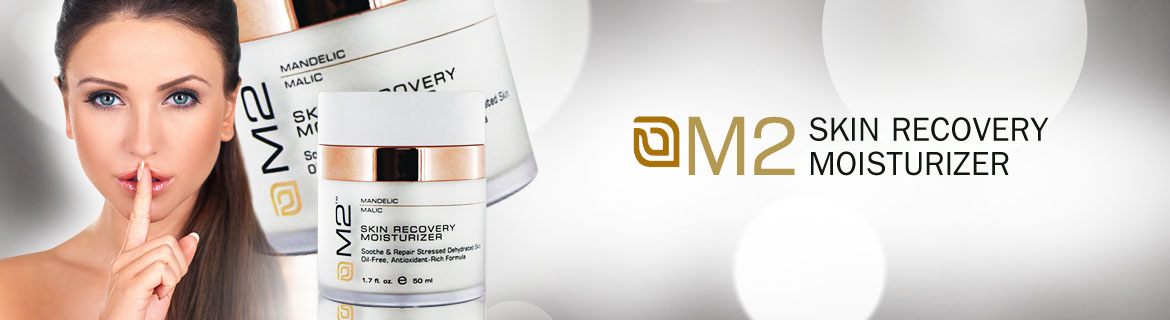
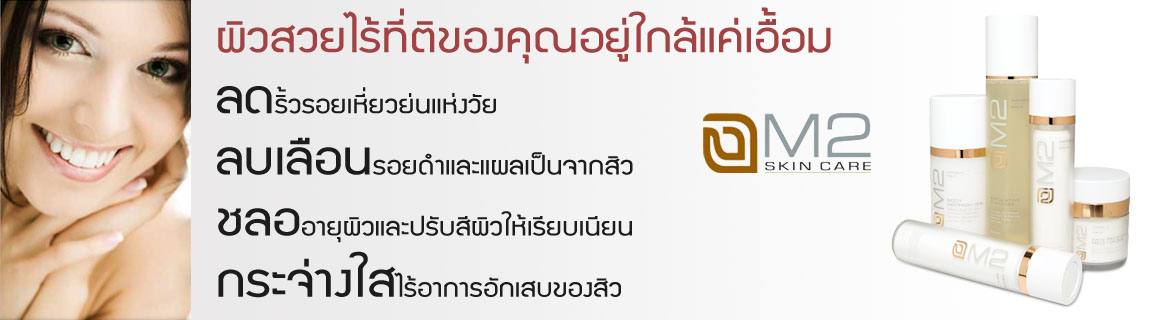
update website

diff --git a/wp-content/themes/mystile/style.css b/wp-content/themes/mystile/style.css
@@ -1993,7 +1993,7 @@ ul.products li.product img {
   box-sizing: border-box;
   /* Opera/IE 8+ */
 
-  border: 1px solid #e8e4e3;
+  border: 0px solid #e8e4e3;
   background: #fff;
   margin: 0 auto 1em;
 }

diff --git a/wp-content/plugins/woocommerce/templates/single-product/product-image.php b/wp-content/plugins/woocommerce/templates/single-product/product-image.php
@@ -12,6 +12,27 @@ if ( ! defined( 'ABSPATH' ) ) exit; // Exit if accessed directly
 global $post, $woocommerce, $product;
 
 ?>
+<style>
+.woocommerce-result-count, .woocommerce-ordering { display:none; }
+.product h3 { font-size: 1em; font-weight:normal; }
+.product-menu-list { float:left; width:250px; padding-top:30px; }
+.product-menu-list li { line-height:30px; }
+.product-menu-list a { color:#996633; }
+.single-product .images { width: 330px; padding: 80px 30px; }
+.images img { width: 300px; }
+.woocommerce-tabs { margin-top:100px;}
+.onsale { display:none; }
+</style>
+<div class="product-menu-list">
+	<h1 class="page-title">ผลิตภัณฑ์ของเรา</h1>
+        <ul>
+                <li><a href="/product/m2-exfoliating-cleanser/">M2 Exfoliating Cleanser เจลใสล้างหน้า</a></li>
+                <li><a href="/product/m2-skin-refinish-12/">M2 Skin Refinish 12% เซรั่ม เพื่อผิวหน้ากระจ่างใส</a></li>
+                <li><a href="/product/m2-skin-recovery-moisturizer/">M2 Skin Recovery Moisturizer ครีมบำรุงผิวหน้า</a></li>
+                <li><a href="/product/m2-body-refinish-15-100ml/">M2 Body Refinish 15% โลชั่นทาผิวกาย</a></li>
+                <li><a href="/product/m2-sensitive-skin-collection-bundle/">M2 Bundle Set ชุดผลิตภัณฑ์ เผื่อผิวเรียบเนียน กระจ่างใส</a></li>
+        </ul>
+</div>
 <div class="images">
 
 	<?php
@@ -41,4 +62,59 @@ global $post, $woocommerce, $product;
 
 	<?php do_action( 'woocommerce_product_thumbnails' ); ?>
 
+</div>
+
+<div style="float: left;position: relative;top: 370px;left: -288px;">
+	
+	<div itemprop="offers" itemscope itemtype="http://schema.org/Offer">
+	
+		<p class="price">ราคา <?php echo $product->get_price_html(); ?></p>
+	
+		<meta itemprop="price" content="<?php echo $product->get_price(); ?>" />
+		<meta itemprop="priceCurrency" content="<?php echo get_woocommerce_currency(); ?>" />
+		<link itemprop="availability" href="http://schema.org/<?php echo $product->is_in_stock() ? 'InStock' : 'OutOfStock'; ?>" />
+	
+	</div>
+	
+	<?
+	global $woocommerce, $product;
+	
+	if ( ! $product->is_purchasable() ) return;
+	?>
+	
+	<?php
+		// Availability
+		$availability = $product->get_availability();
+	
+		if ( $availability['availability'] )
+			echo apply_filters( 'woocommerce_stock_html', '<p class="stock ' . esc_attr( $availability['class'] ) . '">' . esc_html( $availability['availability'] ) . '</p>', $availability['availability'] );
+	?>
+	
+	<?php if ( $product->is_in_stock() ) : ?>
+	
+		<?php do_action( 'woocommerce_before_add_to_cart_form' ); ?>
+	
+		<form class="cart" method="post" enctype='multipart/form-data'>
+			
+			<?php do_action( 'woocommerce_before_add_to_cart_button' ); ?>
+	
+			<?php
+				if ( ! $product->is_sold_individually() )
+					woocommerce_quantity_input( array(
+						'min_value' => apply_filters( 'woocommerce_quantity_input_min', 1, $product ),
+						'max_value' => apply_filters( 'woocommerce_quantity_input_max', $product->backorders_allowed() ? '' : $product->get_stock_quantity(), $product )
+					) );
+			?>
+	
+			<input type="hidden" name="add-to-cart" value="<?php echo esc_attr( $product->id ); ?>" />
+	
+			<button type="submit" class="single_add_to_cart_button button alt">สั่งซื้อ<?php //echo $product->single_add_to_cart_text(); ?></button>
+	
+			<?php do_action( 'woocommerce_after_add_to_cart_button' ); ?>
+		</form>
+	
+		<?php do_action( 'woocommerce_after_add_to_cart_form' ); ?>
+	
+	<?php endif; ?>
+	
 </div>

diff --git a/wp-content/themes/mystile/includes/theme-woocommerce.php b/wp-content/themes/mystile/includes/theme-woocommerce.php
@@ -62,7 +62,101 @@ if (!function_exists('woocommerce_mystile_before_content')) {
 	        <!-- #main Starts -->
 	        <?php woo_main_before(); ?>
 	        <div id="main" class="col-left">
-
+		
+		    <script type="text/javascript">
+		    jQuery( function() {
+			    jQuery( '#template-carousel' ).carousel( {
+				    interval: 8000
+			    } );
+		    } );
+		    </script>
+		    <style>
+			.carousel { margin: 0 auto; max-width: 1170px; width:100%; }
+			#template-carousel .carousel-inner { max-height: 337px; width:100%;  }
+			.home #content.with-banner { margin-top: 50px; }
+			.post img, .type-page img { padding:0px; border:0px; }
+			.post, .type-page { margin: 0px; }
+		    </style>
+		    <div id="template-carousel" class="carousel slide hidden-phone">
+			<div class="carousel-inner">
+				
+				<div id="bs-slide-47" class="item  bs-slide-47 active">
+					<div class="bigcarousel-bg hidden-phone">
+					</div>
+					<div id="post-47" class="post-2 page type-page status-publish hentry">
+					    <div class="site row-fluid wrapper-group">
+						<img src="/wp-content/uploads/Slide_1.jpg"/>
+					    </div>
+					    <!-- .wrapper-group -->
+					</div>
+					<!-- #post-## -->
+				    </div>
+				<div id="bs-slide-47" class="item  bs-slide-47">
+					<div class="bigcarousel-bg hidden-phone">
+					</div>
+					<div id="post-47" class="post-2 page type-page status-publish hentry">
+					    <div class="site row-fluid wrapper-group">
+						<img src="/wp-content/uploads/Slide_2.jpg"/>
+					    </div>
+					    <!-- .wrapper-group -->
+					</div>
+					<!-- #post-## -->
+				    </div>
+				    <!-- .item -->
+				    <div id="bs-slide-47" class="item  bs-slide-47">
+					<div class="bigcarousel-bg hidden-phone">
+					</div>
+					<div id="post-47" class="post-2 page type-page status-publish hentry">
+					    <div class="site row-fluid wrapper-group">
+						<img src="/wp-content/uploads/Slide_3.jpg"/>
+					    </div>
+					    <!-- .wrapper-group -->
+					</div>
+					<!-- #post-## -->
+				    </div>
+				    <!-- .item -->
+				    <div id="bs-slide-47" class="item  bs-slide-47">
+					<div class="bigcarousel-bg hidden-phone">
+					</div>
+					<div id="post-47" class="post-2 page type-page status-publish hentry">
+					    <div class="site row-fluid wrapper-group">
+						<img src="/wp-content/uploads/Slide_4.jpg"/>
+					    </div>
+					    <!-- .wrapper-group -->
+					</div>
+					<!-- #post-## -->
+				    </div>
+				    <!-- .item -->
+				    <div id="bs-slide-47" class="item  bs-slide-47">
+					<div class="bigcarousel-bg hidden-phone">
+					</div>
+					<div id="post-47" class="post-2 page type-page status-publish hentry">
+					    <div class="site row-fluid wrapper-group">
+						<img src="/wp-content/uploads/Slide_5.jpg"/>
+					    </div>
+					    <!-- .wrapper-group -->
+					</div>
+					<!-- #post-## -->
+				    </div>
+				    <!-- .item -->
+				    <div id="bs-slide-47" class="item  bs-slide-47">
+					<div class="bigcarousel-bg hidden-phone">
+					</div>
+					<div id="post-47" class="post-2 page type-page status-publish hentry">
+					    <div class="site row-fluid wrapper-group">
+						<img src="/wp-content/uploads/Slide_6.jpg"/>
+					    </div>
+					    <!-- .wrapper-group -->
+					</div>
+					<!-- #post-## -->
+				    </div>
+				    <!-- .item -->
+	    
+			</div><!-- .carousel-inner -->
+		
+		    </div><!-- #template-carousel -->
+		    <br>
+		    
 	    <?php
 	}
 }

diff --git a/wp-content/plugins/woocommerce/templates/loop/loop-start.php b/wp-content/plugins/woocommerce/templates/loop/loop-start.php
@@ -7,4 +7,20 @@
  * @version     2.0.0
  */
 ?>
-<ul class="products">
+<style>
+.woocommerce-result-count, .woocommerce-ordering { display:none; }
+.product h3 { font-size: 1em; font-weight:normal; }
+.product-menu-list { float:left; width:250px; padding-top:30px; }
+.product-menu-list li { line-height:30px; }
+.product-menu-list a { color:#996633; }
+</style>
+<div class="product-menu-list">
+        <ul>
+                <li><a href="/product/m2-exfoliating-cleanser/">M2 Exfoliating Cleanser เจลใสล้างหน้า</a></li>
+                <li><a href="/product/m2-skin-refinish-12/">M2 Skin Refinish 12% เซรั่ม เพื่อผิวหน้ากระจ่างใส</a></li>
+                <li><a href="/product/m2-skin-recovery-moisturizer/">M2 Skin Recovery Moisturizer ครีมบำรุงผิวหน้า</a></li>
+                <li><a href="/product/m2-body-refinish-15-100ml/">M2 Body Refinish 15% โลชั่นทาผิวกาย</a></li>
+                <li><a href="/product/m2-sensitive-skin-collection-bundle/">M2 Bundle Set ชุดผลิตภัณฑ์ เผื่อผิวเรียบเนียน กระจ่างใส</a></li>
+        </ul>
+</div>
+<ul class="products" style="width: 850px; float: right;">

diff --git a/wp-content/plugins/woocommerce/templates/content-product.php b/wp-content/plugins/woocommerce/templates/content-product.php
@@ -41,7 +41,7 @@ if ( 0 == $woocommerce_loop['loop'] % $woocommerce_loop['columns'] )
 	
 	<a href="<?php the_permalink(); ?>">
 	
-		<div style="float:left; position: absolute; text-align: right; width: 100%;top: 228px;right: 8px;" class="fb-like" data-href="<?=get_permalink($post->id)?>" data-send="false" data-layout="button_count" data-width="880" data-show-faces="true"></div>
+		<div style="float:left; position: absolute; text-align: right; width: 100%;top: 172px;right: 0px;" class="fb-like" data-href="<?=get_permalink($post->id)?>" data-send="false" data-layout="button_count" data-width="880" data-show-faces="true"></div>
 		
 		<?
 		/** lek */

diff --git a/wp-content/themes/mystile/header.php b/wp-content/themes/mystile/header.php
@@ -148,12 +148,12 @@ $(function(){
 
 		<?php woo_nav_after(); ?>
 		
-		<div style="float: right; position: relative; width: 700px; text-align: right;">
+		<!--div style="float: right; position: relative; width: 700px; text-align: right;">
 		    <form id="email_subscribe_form" action="" method="post">
 			<input type="email" name="email_subscribe" value="" placeholder="Your email address." style="height: 30px; margin: 0px 10px;" required/>
 			<input type="submit" value="subscribe"/>
 		    </form>
-		</div>
+		</div-->
 		
 		<!--div style="float:left; width:1170px; height:61px;">
 		    <ul id="sub-nav">

diff --git a/wp-content/themes/mystile/index.php b/wp-content/themes/mystile/index.php
@@ -96,6 +96,18 @@ if ( ! function_exists( 'wp' ) && ! empty( $_SERVER['SCRIPT_FILENAME'] ) && base
 			    <!-- #post-## -->
 			</div>
 			<!-- .item -->
+			<div id="bs-slide-47" class="item  bs-slide-47">
+			    <div class="bigcarousel-bg hidden-phone">
+			    </div>
+			    <div id="post-47" class="post-2 page type-page status-publish hentry">
+				<div class="site row-fluid wrapper-group">
+				    <img src="/wp-content/uploads/Slide_6.jpg"/>
+				</div>
+				<!-- .wrapper-group -->
+			    </div>
+			    <!-- #post-## -->
+			</div>
+			<!-- .item -->
 
 	    </div><!-- .carousel-inner -->
     

diff --git a/wp-content/plugins/woocommerce/templates/single-product/price.php b/wp-content/plugins/woocommerce/templates/single-product/price.php
@@ -11,7 +11,7 @@ if ( ! defined( 'ABSPATH' ) ) exit; // Exit if accessed directly
 
 global $post, $product;
 ?>
-<div itemprop="offers" itemscope itemtype="http://schema.org/Offer">
+<!--div itemprop="offers" itemscope itemtype="http://schema.org/Offer">
 
 	<p class="price"><?php echo $product->get_price_html(); ?></p>
 
@@ -19,4 +19,4 @@ global $post, $product;
 	<meta itemprop="priceCurrency" content="<?php echo get_woocommerce_currency(); ?>" />
 	<link itemprop="availability" href="http://schema.org/<?php echo $product->is_in_stock() ? 'InStock' : 'OutOfStock'; ?>" />
 
-</div>
+</div-->

diff --git a/wp-content/plugins/woocommerce/templates/single-product/meta.php b/wp-content/plugins/woocommerce/templates/single-product/meta.php
@@ -14,7 +14,7 @@ global $post, $product;
 $cat_count = sizeof( get_the_terms( $post->ID, 'product_cat' ) );
 $tag_count = sizeof( get_the_terms( $post->ID, 'product_tag' ) );
 ?>
-<div class="product_meta">
+<!--div class="product_meta">
 
 	<?php do_action( 'woocommerce_product_meta_start' ); ?>
 
@@ -30,4 +30,4 @@ $tag_count = sizeof( get_the_terms( $post->ID, 'product_tag' ) );
 
 	<?php do_action( 'woocommerce_product_meta_end' ); ?>
 
-</div>
+</div-->

diff --git a/wp-content/plugins/woocommerce/templates/single-product/add-to-cart/simple.php b/wp-content/plugins/woocommerce/templates/single-product/add-to-cart/simple.php
@@ -12,6 +12,8 @@ if ( ! defined( 'ABSPATH' ) ) exit; // Exit if accessed directly
 global $woocommerce, $product;
 
 if ( ! $product->is_purchasable() ) return;
+
+return;
 ?>
 
 <?php
